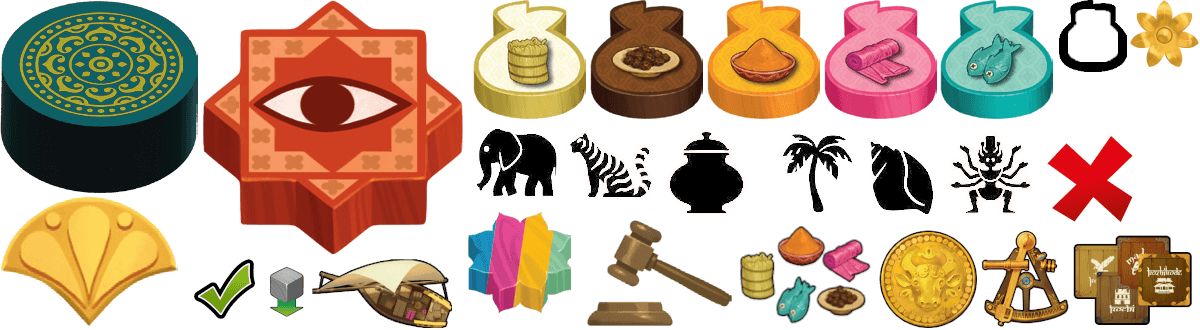
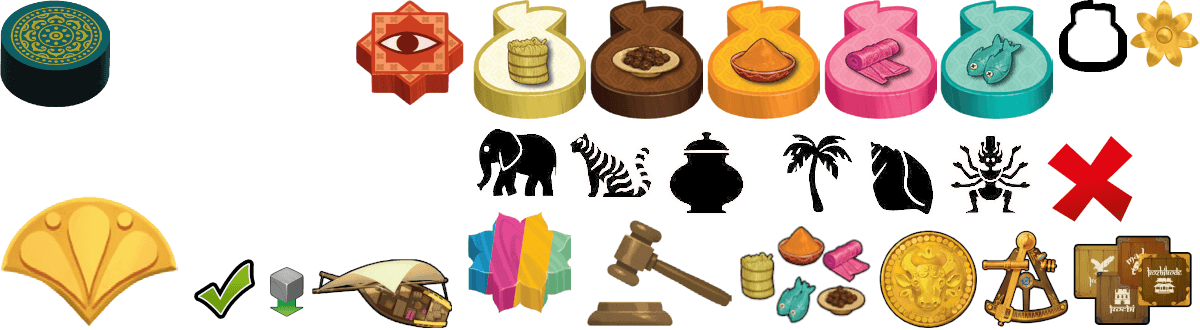
[IMG] Reduce nazar stone size in sprite for future
+ reduce round marker size

Changed region(s): [[0.0, 0.0, 0.4008, 0.7576], [0.6475, 0.7576, 0.6783, 0.7879], [0.2158, 0.9394, 0.2467, 0.9697]]

diff --git a/goa.css b/goa.css
@@ -1075,7 +1075,7 @@ body.notouch-device .goa_tile:hover .goa_token:not(.selectable) {
   background-image: url("img/icons.png");
   background-position-x: 0px;
   background-position-y: 0px;
-  background-size: 606.0606060606% 170.9844559585%;
+  background-size: 1090.9090909091% 305.5555555556%;
 }
 
 .goa_icon_round_step_1 {
@@ -1503,17 +1503,17 @@ body.notouch-device .goa_tile:hover .goa_token:not(.selectable) {
   width: 60px;
   height: 60px;
   background-image: url("img/icons.png");
-  background-position-x: -46.2595419847px;
+  background-position-x: -195.4128440367px;
   background-position-y: 0px;
-  background-size: 458.0152671756% 129.4117647059%;
+  background-size: 1100.9174311927% 311.320754717%;
 }
 .goa_first_auction_marker.goa_token_log {
   width: 25px;
   height: 25px;
   background-image: url("img/icons.png");
-  background-position-x: -19.2748091603px;
+  background-position-x: -81.4220183486px;
   background-position-y: 0px;
-  background-size: 458.0152671756% 129.4117647059%;
+  background-size: 1100.9174311927% 311.320754717%;
 }
 
 .goa_icon_nazar_stone,
@@ -1521,9 +1521,9 @@ body.notouch-device .goa_tile:hover .goa_token:not(.selectable) {
   width: 30px;
   height: 30px;
   background-image: url("img/icons.png");
-  background-position-x: -23.1297709924px;
+  background-position-x: -97.7064220183px;
   background-position-y: 0px;
-  background-size: 458.0152671756% 129.4117647059%;
+  background-size: 1100.9174311927% 311.320754717%;
 }
 
 .goa_tile_spot .goa_icon_spice_shadow {
@@ -2681,9 +2681,9 @@ body.notouch-device .scrollable-stock button:hover .goa_arrow {
   width: 102px;
   height: 102px;
   background-image: url("img/icons.png");
-  background-position-x: -78.641221374px;
+  background-position-x: -332.2018348624px;
   background-position-y: 0px;
-  background-size: 458.0152671756% 129.4117647059%;
+  background-size: 1100.9174311927% 311.320754717%;
 }
 
 .goa_automa_table[data-phase="1"] #goa_automa_board_background {

diff --git a/modules/js/states/PlayerTurn.js b/modules/js/states/PlayerTurn.js
@@ -48,8 +48,8 @@ export class PlayerTurn {
                 let titleActive =  _('${you} must select an action ${icon_action}').replace('${icon_action}',iconAction);
                 let titleOthers =  _('${actplayer} must select an action ${icon_action}').replace('${icon_action}',iconAction);
                 if(args.actionPlayed){
-                    titleActive =  _('${you} may play a card or tile');
-                    titleOthers =  _('${actplayer} may play a card or tile');
+                    titleActive =  _('${you} may play a card or tile after your action');
+                    titleOthers =  _('${actplayer} may play a card or tile after their action');
                 }
                 if(possibleActions.includes('actPassAction')){
                     titleActive =  _('${you} may pass or spend 1 ${compass_card} for an action ${icon_action}').replace('${compass_card}',this.game.formatIcon('compasses',_('Compass card'))).replace('${icon_action}',iconAction);

diff --git a/src/css/tokens.scss b/src/css/tokens.scss
@@ -70,15 +70,15 @@
 
 .goa_first_auction_marker{
     position: relative; 
-    @include goa_icons_sprite(202px,0px,60px,60px,262px,255px);
+    @include goa_icons_sprite(355px,0px,60px,60px,109px,106px);
     &.goa_token_log {
         //REDUCE SIZE IN LOG
-        @include goa_icons_sprite(202px,0px,25px,25px,262px,255px);
+        @include goa_icons_sprite(355px,0px,25px,25px,109px,106px);
     }
 }
 .goa_icon_nazar_stone,
 .goa_first_player_container .goa_first_auction_marker{
-    @include goa_icons_sprite(202px,0px,30px,30px,262px,255px);
+    @include goa_icons_sprite(355px,0px,30px,30px,109px,106px);
 }
 
 

diff --git a/src/css/solo_board.scss b/src/css/solo_board.scss
@@ -167,7 +167,7 @@ $automaboard_img_height: calc(713px);
                 position: absolute;
                 left: 619px;
                 top: 584px;
-                @include goa_icons_sprite(202px,0px,102px,102px,262px,255px);
+                @include goa_icons_sprite(355px,0px,102px,102px,109px,106px);
             }
         }
     }

diff --git a/src/css/icons.scss b/src/css/icons.scss
@@ -7,7 +7,7 @@
 }
 
 #goa_board_round_marker{
-    @include goa_icons_sprite(0px,0px,0.25 * 198px,0.25 * 193px,198px,193px);
+    @include goa_icons_sprite(0px,0px,0.25 * 198px,0.25 * 193px,110px,108px);
 }
 
 .goa_icon_round_step_1
